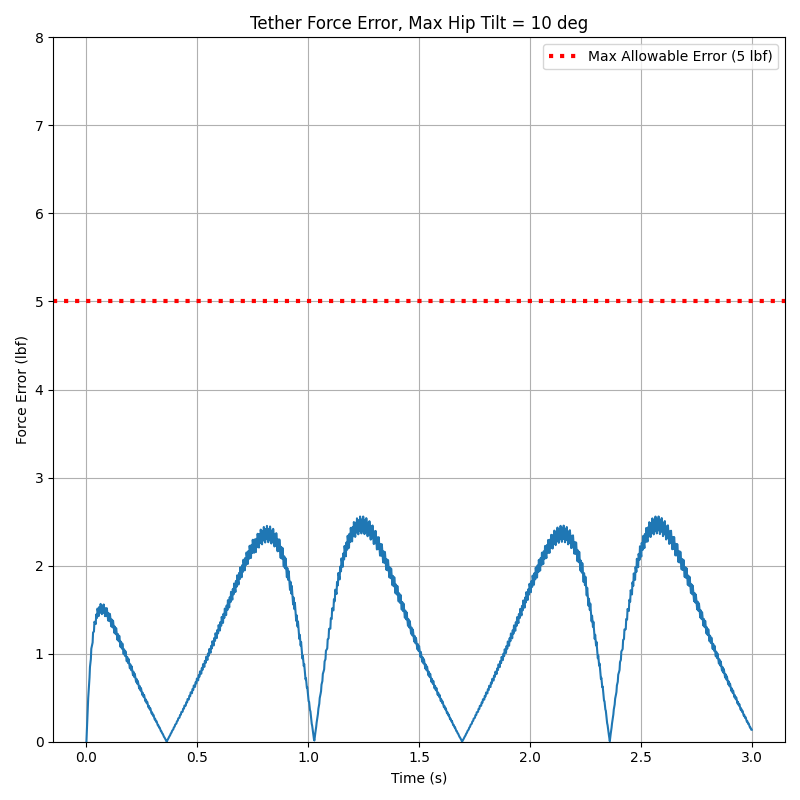
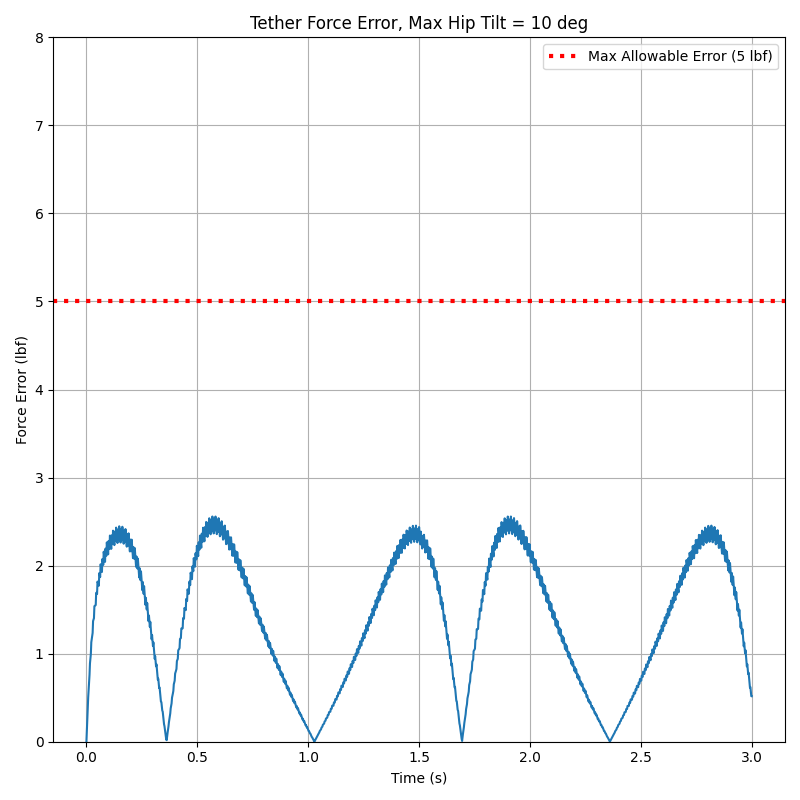
more plot changes

diff --git a/modeling/dynamic_models/Parameters_3_Tether_Dynamic_Model.py b/modeling/dynamic_models/Parameters_3_Tether_Dynamic_Model.py
@@ -1,12 +1,12 @@
 import numpy as np
 
 class Parameters:
-    mass = 100.0  # person's weight (lb)
-    r = 2 / (2 * np.pi)  # waist radius (ft)
-    waist_height = 2.5
-    # mass = 200.0  # person's weight (lb)
-    # r = 3 / (2 * np.pi)  # waist radius (ft)
-    # waist_height = -3.1
+    # mass = 100.0  # person's weight (lb)
+    # r = 2 / (2 * np.pi)  # waist radius (ft)
+    # waist_height = -2.5
+    mass = 200.0  # person's weight (lb)
+    r = 3 / (2 * np.pi)  # waist radius (ft)
+    waist_height = -3.1
 
     # tether anchor loc 3x3 each row is the vector for each tether
     teth_anchor = [[-2,                      0.0,                     0.0],

diff --git a/modeling/dynamic_models/Parameters_2_Tether_Dynamic_Model.py b/modeling/dynamic_models/Parameters_2_Tether_Dynamic_Model.py
@@ -3,7 +3,7 @@ import numpy as np
 class Parameters:
     mass = 100.0  # person's weight (lb)
     r = 2 / (2 * np.pi)  # waist radius (ft)
-    waist_height = 2.5
+    waist_height = -2.5
     # mass = 200.0  # person's weight (lb)
     # r = 3 / (2 * np.pi)  # waist radius (ft)
     # waist_height = -3.1

diff --git a/modeling/dynamic_models/2_Tether_Dynamic_Model.py b/modeling/dynamic_models/2_Tether_Dynamic_Model.py
@@ -271,7 +271,7 @@ def main():
     teth_anchor = p.teth_anchor
     offset = p.offset
     max_hip_tilt = 10
-    tilt_axis = 'z'
+    tilt_axis = 'y'
     # Time parameters
     duration = 3.0  # seconds (5 complete cycles at 1Hz)
     dt = p.dt # time step (essentially our sensor suite update rate)
